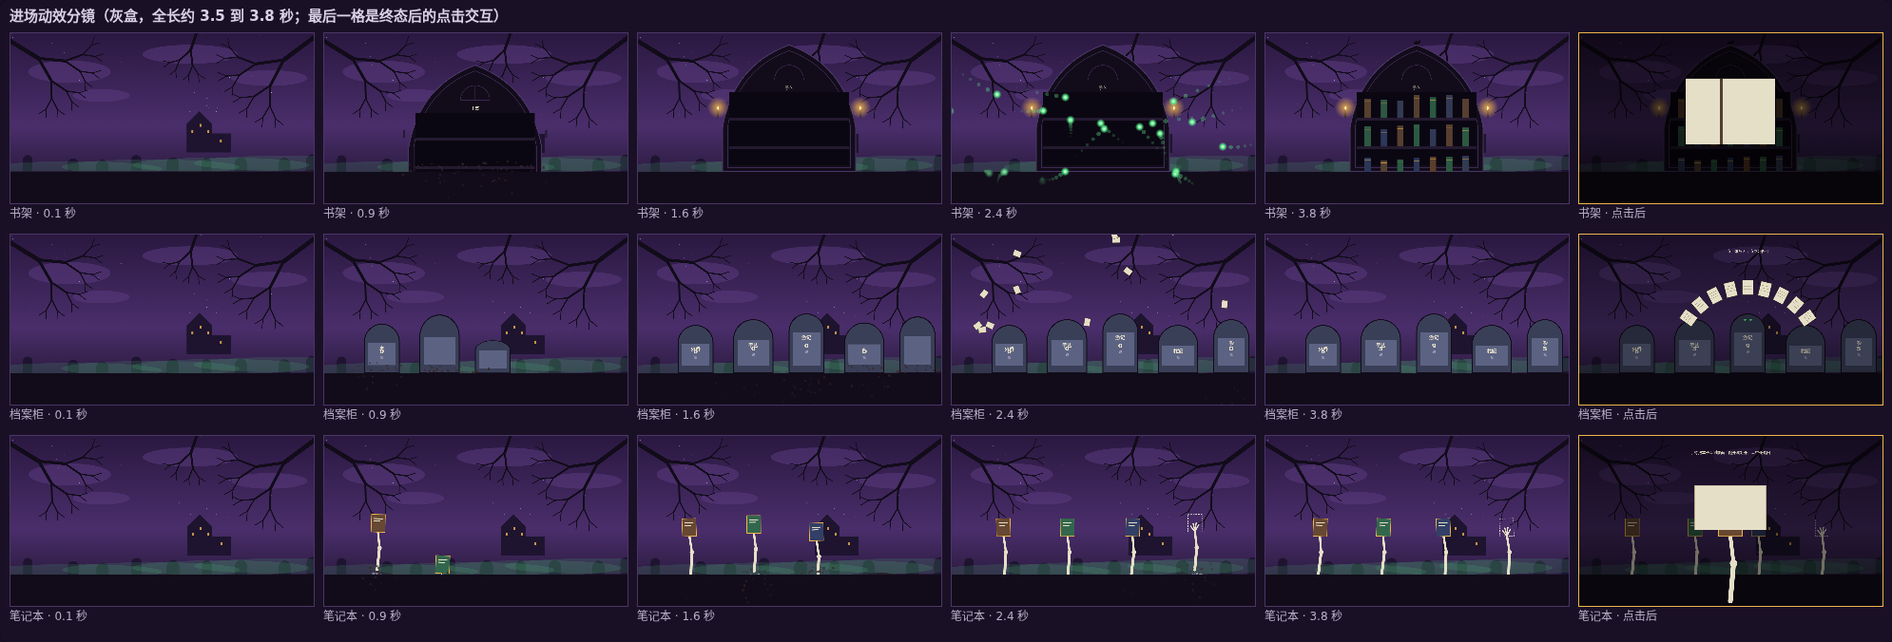
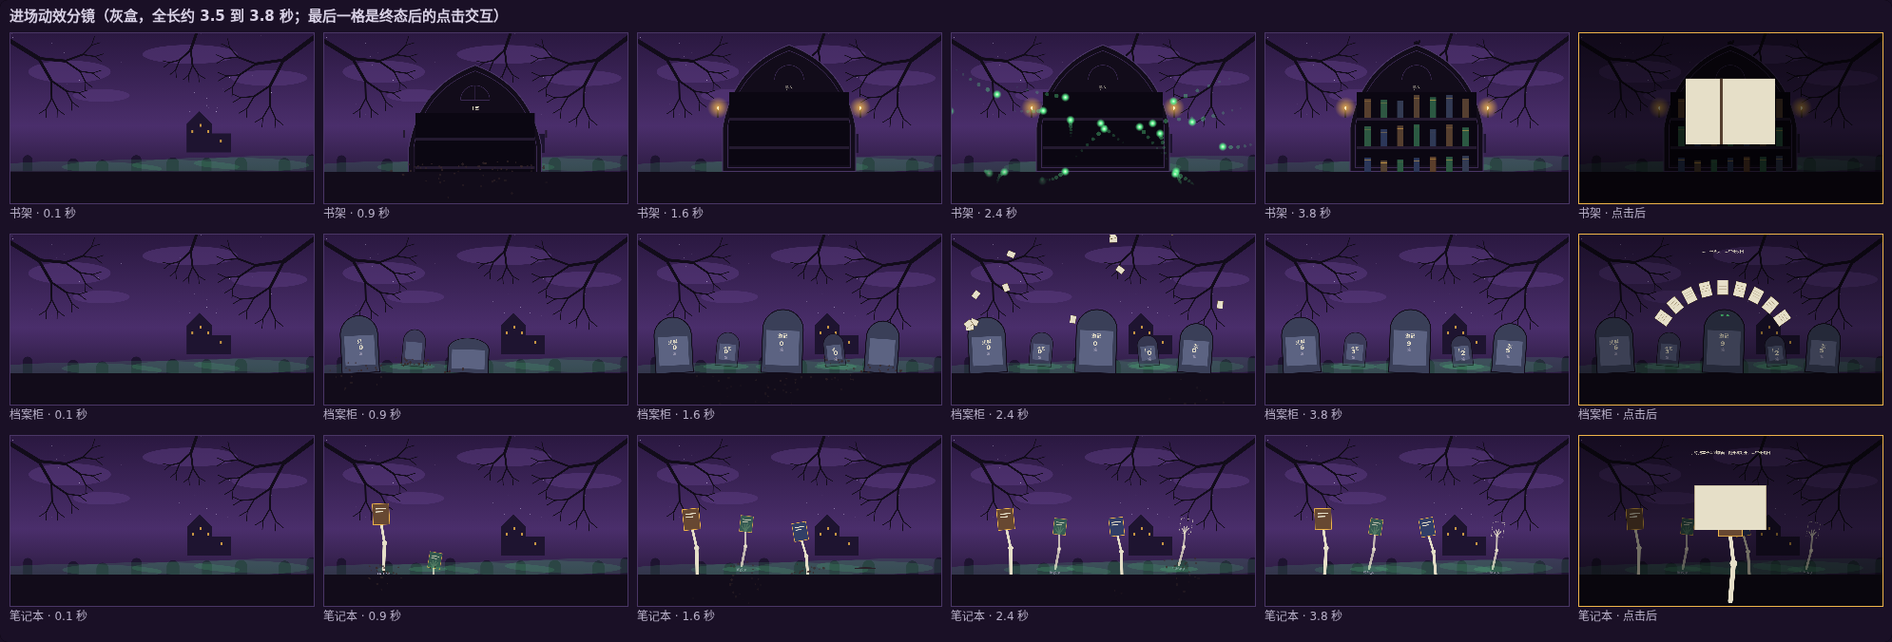
洋红底废止改透明底直出；错落排布规则；原型碑与手臂改错落
- 圣经：零件用 background transparent 直接出透明底，给人看的先贴到场景底上；新增第八之二节错落规则；第二轮试笔改为场景一张加透明底三件（碑与手臂各出三种变体一张表）
- 计划与分镜：生产线、阶段 0、碑与手臂的做法同步
- 灰盒原型：碑前后两排、高矮不一、各歪几度；手臂长短角度前后不一；分镜图重出

diff --git a/docs/ui-motion-proto.html b/docs/ui-motion-proto.html
@@ -53,8 +53,9 @@ const FAR = Array.from({ length: 9 }, (_, i) => ({ x: 40 + i * 110 + R() * 40, w
 const NB = Number(q.get('n') || 21);
 const BOOKS = Array.from({ length: NB }, (_, k) => ({ k, h: 46 + R() * 26, hue: [25, 150, 225][k % 3], sat: 22 + R() * 14, edge: R(), s2: R() }));
 const NAMES = ['史料', '手艺', '游记', '札记', '杂'];
-const TOMBS = [6, 3, 9, 2, 5].map((n, i) => ({ n, name: NAMES[i], x: 130 + i * 175, w: 110 + (i % 2) * 14, h: 150 + (i % 3) * 18, cards: Array.from({ length: n }, () => ({ e: R(), s: R() })) }));
-const ARMS = [['随手本', 170, 25], ['摘抄册', 370, 150], ['读书札记', 570, 225], ['＋ 新本子', 770, -1]].map(([n, x, hue], i) => ({ n, x, hue, j: R() }));
+const TLAY = [[60, 0, 118, 176, -3], [236, 1, 90, 136, 5], [392, 0, 128, 200, 2], [586, 1, 82, 124, -6], [716, 0, 104, 156, 4]]; // x, 后排, 宽, 高, 倾斜度
+const TOMBS = [6, 3, 9, 2, 5].map((n, i) => { const [x, back, w, h, tilt] = TLAY[i]; return { n, name: NAMES[i], x, w, h, back: !!back, sc: back ? .78 : 1, by: back ? GROUND - 22 : GROUND, tilt: tilt * Math.PI / 180, cards: Array.from({ length: n }, () => ({ e: R(), s: R() })) }; });
+const ARMS = [['随手本', 190, 25, 1.18, -4, 0], ['摘抄册', 330, 150, .9, 7, 1], ['读书札记', 540, 225, 1.02, -8, 0], ['＋ 新本子', 720, -1, .84, 10, 1]].map(([n, x, hue, k, tilt, back], i) => ({ n, x, hue, k, tilt: tilt * Math.PI / 180, back: !!back, by: back ? GROUND - 18 : GROUND, j: R() }));
 
 function edgePoint(e, s) { if (e < .33) return { x: -30, y: 80 + s * 300 }; if (e < .66) return { x: W + 30, y: 80 + s * 300 }; return { x: 60 + s * (W - 120), y: GROUND + 20 }; }
 
@@ -151,20 +152,21 @@ function renderArchive(ctx, t, short, fan) {
   const shake = (!short && t < .3) ? { x: Math.sin(t * 80) * 3 * (1 - t / .3), y: 0 } : { x: 0, y: 0 };
   background(ctx, t, shake);
   const counts = TOMBS.map(() => 0);
-  TOMBS.forEach((tb, i) => { const st = short ? 0 : .3 + i * .25, g = short ? 1 : easeOutBack(seg(t, st, .7)); if (g <= 0) return; ctx.save(); ctx.translate(tb.x + tb.w / 2, GROUND); ctx.scale(1, g); ctx.translate(-tb.w / 2, 0); ctx.fillStyle = STONE_D; tombShape(ctx, 0, -tb.h, tb.w, tb.h); ctx.fill(); ctx.strokeStyle = WOOD; ctx.lineWidth = 3; ctx.stroke(); ctx.fillStyle = STONE; ctx.fillRect(12, -tb.h + tb.w / 2 + 2, tb.w - 24, tb.h - tb.w / 2 - 26); const nameU = short ? 1 : seg(t, st + .5, .6); ctx.fillStyle = BONE; ctx.font = 'bold 15px system-ui'; ctx.textAlign = 'center'; ctx.fillText(tb.name.slice(0, Math.ceil(tb.name.length * nameU)), tb.w / 2, -tb.h + tb.w / 2 + 24); eyes(ctx, tb.w / 2, -tb.h + 18, (fan && fan.i === i) ? 1 : (short ? 0 : clamp((t - 3.2) * 4) * (t < 3.5 ? 1 : 0))); ctx.restore(); if (!short) dirt(ctx, t, st, tb.x + tb.w / 2, GROUND, 24, tb.w + 30, 20 + i); });
+  const order = [...TOMBS.keys()].sort((a, b) => (TOMBS[b].back ? 1 : 0) - (TOMBS[a].back ? 1 : 0));
+  order.forEach(i => { const tb = TOMBS[i]; const st = short ? 0 : .3 + i * .25, g = short ? 1 : easeOutBack(seg(t, st, .7)); if (g <= 0) return; ctx.save(); ctx.translate(tb.x + tb.w / 2, tb.by); ctx.rotate(tb.tilt); ctx.scale(tb.sc, tb.sc * g); ctx.translate(-tb.w / 2, 0); if (tb.back) ctx.globalAlpha = .82; ctx.fillStyle = STONE_D; tombShape(ctx, 0, -tb.h, tb.w, tb.h); ctx.fill(); ctx.strokeStyle = WOOD; ctx.lineWidth = 3; ctx.stroke(); ctx.fillStyle = STONE; ctx.fillRect(12, -tb.h + tb.w / 2 + 2, tb.w - 24, tb.h - tb.w / 2 - 26); const nameU = short ? 1 : seg(t, st + .5, .6); ctx.fillStyle = BONE; ctx.font = 'bold 15px system-ui'; ctx.textAlign = 'center'; ctx.fillText(tb.name.slice(0, Math.ceil(tb.name.length * nameU)), tb.w / 2, -tb.h + tb.w / 2 + 24); eyes(ctx, tb.w / 2, -tb.h + 18, (fan && fan.i === i) ? 1 : (short ? 0 : clamp((t - 3.2) * 4) * (t < 3.5 ? 1 : 0))); ctx.restore(); if (tb.back) { ctx.globalAlpha = .16; ctx.fillStyle = GREEN; ctx.beginPath(); ctx.ellipse(tb.x + tb.w / 2, tb.by + 2, tb.w * .8, 10, 0, 0, 7); ctx.fill(); ctx.globalAlpha = 1; } if (!short) dirt(ctx, t, st, tb.x + tb.w / 2, tb.by, 24, tb.w + 30, 20 + i); });
   const start = short ? 0 : 1.8, dur = short ? .5 : .9; let idx = 0;
-  TOMBS.forEach((tb, i) => tb.cards.forEach((c, j) => { const dep = start + idx * (short ? .012 : .045), u = (t - dep) / dur; idx++; if (u > 1) { counts[i]++; return; } if (u < 0) return; const from = c.e < .5 ? { x: 80 + c.s * (W - 160), y: -20 } : (c.e < .75 ? { x: -20, y: 60 + c.s * 200 } : { x: W + 20, y: 60 + c.s * 200 }); const to = { x: tb.x + tb.w / 2, y: GROUND - tb.h / 2 - 10 }; const e = easeInOutSine(u); cardAt(ctx, lerp(from.x, to.x, e) + Math.sin(u * 7 + j) * 30 * (1 - u), lerp(from.y, to.y, e), (1 - u) * 6 + j, clamp((1 - u) * 5)); }));
-  TOMBS.forEach((tb, i) => { const st = short ? 0 : .3 + i * .25; if (t < st + .5) return; ctx.fillStyle = BONE; ctx.font = 'bold 20px system-ui'; ctx.textAlign = 'center'; ctx.fillText(String(counts[i]), tb.x + tb.w / 2, GROUND - tb.h / 2 + 14); ctx.fillStyle = '#b8b0c8'; ctx.font = '11px system-ui'; ctx.fillText('篇', tb.x + tb.w / 2, GROUND - tb.h / 2 + 30); });
+  TOMBS.forEach((tb, i) => tb.cards.forEach((c, j) => { const dep = start + idx * (short ? .012 : .045), u = (t - dep) / dur; idx++; if (u > 1) { counts[i]++; return; } if (u < 0) return; const from = c.e < .5 ? { x: 80 + c.s * (W - 160), y: -20 } : (c.e < .75 ? { x: -20, y: 60 + c.s * 200 } : { x: W + 20, y: 60 + c.s * 200 }); const to = { x: tb.x + tb.w / 2, y: tb.by - tb.h * tb.sc / 2 - 10 }; const e = easeInOutSine(u); cardAt(ctx, lerp(from.x, to.x, e) + Math.sin(u * 7 + j) * 30 * (1 - u), lerp(from.y, to.y, e), (1 - u) * 6 + j, clamp((1 - u) * 5)); }));
+  TOMBS.forEach((tb, i) => { const st = short ? 0 : .3 + i * .25; if (t < st + .5) return; ctx.fillStyle = BONE; ctx.font = 'bold 20px system-ui'; ctx.textAlign = 'center'; ctx.fillText(String(counts[i]), tb.x + tb.w / 2, tb.by - tb.h * tb.sc / 2 + 14); ctx.fillStyle = '#b8b0c8'; ctx.font = '11px system-ui'; ctx.fillText('篇', tb.x + tb.w / 2, tb.by - tb.h * tb.sc / 2 + 30); });
   // 圆弧摆开
-  if (fan) { const tb = TOMBS[fan.i], u = easeOutBack(clamp(fan.u)); ctx.fillStyle = `rgba(0,0,0,${.35 * clamp(fan.u)})`; ctx.fillRect(0, 0, W, H); const cx = tb.x + tb.w / 2, cy = GROUND - 40, n = tb.cards.length, spread = Math.min(1.9, .32 * n), rad = 230; tb.cards.forEach((c, j) => { const a = -Math.PI / 2 + (n === 1 ? 0 : -spread / 2 + spread * j / (n - 1)); const x = lerp(cx, cx + Math.cos(a) * rad, u), y = lerp(cy - tb.h / 2, cy + Math.sin(a) * rad, u); cardAt(ctx, x, y, (a + Math.PI / 2) * u, 1, true); }); ctx.fillStyle = BONE; ctx.font = '12px system-ui'; ctx.textAlign = 'center'; ctx.fillText('点一张放大，点空处收回', cx, 60); }
+  if (fan) { const tb = TOMBS[fan.i], u = easeOutBack(clamp(fan.u)); ctx.fillStyle = `rgba(0,0,0,${.35 * clamp(fan.u)})`; ctx.fillRect(0, 0, W, H); const cx = tb.x + tb.w / 2, cy = tb.by - 40, n = tb.cards.length, spread = Math.min(1.9, .32 * n), rad = 230; tb.cards.forEach((c, j) => { const a = -Math.PI / 2 + (n === 1 ? 0 : -spread / 2 + spread * j / (n - 1)); const x = lerp(cx, cx + Math.cos(a) * rad, u), y = lerp(cy - tb.h * tb.sc / 2, cy + Math.sin(a) * rad, u); cardAt(ctx, x, y, (a + Math.PI / 2) * u, 1, true); }); ctx.fillStyle = BONE; ctx.font = '12px system-ui'; ctx.textAlign = 'center'; ctx.fillText('点一张放大，点空处收回', cx, 60); }
   return short ? .8 : 3.5;
 }
-function hitTomb(x, y) { return TOMBS.findIndex(tb => x > tb.x && x < tb.x + tb.w && y > GROUND - tb.h && y < GROUND); }
+function hitTomb(x, y) { const f = TOMBS.findIndex(tb => !tb.back && x > tb.x && x < tb.x + tb.w && y > tb.by - tb.h && y < tb.by); if (f >= 0) return f; return TOMBS.findIndex(tb => tb.back && x > tb.x && x < tb.x + tb.w * tb.sc && y > tb.by - tb.h * tb.sc && y < tb.by); }
 
 // —— 笔记本：骷髅手臂伸出，抓着本子 ——
-function arm(ctx, x, baseY, rise, sway, hue, label, lift) {
+function arm(ctx, x, baseY, rise, sway, hue, label, lift, k = 1) {
   ctx.save(); if (!lift) { ctx.beginPath(); ctx.rect(0, 0, W, GROUND); ctx.clip(); }
-  ctx.translate(x, baseY + 150 * (1 - rise)); ctx.rotate(sway);
+  ctx.translate(x, baseY + 150 * k * (1 - rise)); ctx.rotate(sway); ctx.scale(k, k);
   ctx.strokeStyle = BONE; ctx.lineWidth = 9; ctx.lineCap = 'round';
   ctx.beginPath(); ctx.moveTo(0, 0); ctx.lineTo(6, -70); ctx.stroke(); // 前臂
   ctx.lineWidth = 7; ctx.beginPath(); ctx.moveTo(6, -70); ctx.lineTo(0, -120); ctx.stroke(); // 上臂（肘向前）
@@ -178,18 +180,20 @@ function arm(ctx, x, baseY, rise, sway, hue, label, lift) {
 }
 function renderNotes(ctx, t, short, lift) {
   background(ctx, t, { x: 0, y: 0 });
-  ARMS.forEach((a, i) => {
+  [...ARMS.keys()].sort((p, q) => (ARMS[q].back ? 1 : 0) - (ARMS[p].back ? 1 : 0)).forEach(i => { const a = ARMS[i];
     const st = short ? 0 : .4 + i * .45, u = short ? 1 : seg(t, st, 1.0);
-    if (!short && t > st - .25 && u <= 0) { const m = seg(t, st - .25, .25); ctx.fillStyle = '#2a1f28'; ctx.beginPath(); ctx.ellipse(a.x, GROUND, 40, 10 * m, 0, Math.PI, 0); ctx.fill(); }
+    if (!short && t > st - .25 && u <= 0) { const m = seg(t, st - .25, .25); ctx.fillStyle = '#2a1f28'; ctx.beginPath(); ctx.ellipse(a.x, a.by, 40 * a.k, 10 * m, 0, Math.PI, 0); ctx.fill(); }
     if (u <= 0) return;
-    const rise = easeOutBack(u), sway = (u >= 1) ? Math.sin(t * 1.6 + a.j * 6) * .04 : Math.sin(t * 30) * .05 * (1 - u);
-    arm(ctx, a.x, GROUND, Math.min(rise, 1.1), sway, a.hue, a.n);
-    if (!short) dirt(ctx, t, st, a.x, GROUND, 24, 90, 40 + i);
+    const rise = easeOutBack(u), sway = a.tilt + ((u >= 1) ? Math.sin(t * 1.6 + a.j * 6) * .04 : Math.sin(t * 30) * .05 * (1 - u));
+    if (a.back) ctx.globalAlpha = .8;
+    arm(ctx, a.x, a.by, Math.min(rise, 1.1), sway, a.hue, a.n, false, a.k); ctx.globalAlpha = 1;
+    if (a.back) { ctx.globalAlpha = .16; ctx.fillStyle = GREEN; ctx.beginPath(); ctx.ellipse(a.x, a.by + 2, 60, 9, 0, 0, 7); ctx.fill(); ctx.globalAlpha = 1; }
+    if (!short) dirt(ctx, t, st, a.x, a.by, 24, 90, 40 + i);
   });
   if (lift) { const a = ARMS[lift.i], u = easeOutCubic(clamp(lift.u)); ctx.fillStyle = `rgba(0,0,0,${.5 * u})`; ctx.fillRect(0, 0, W, H); ctx.save(); ctx.translate(lerp(a.x, W / 2, u), lerp(GROUND, GROUND + 110, u)); ctx.scale(lerp(1, 1.7, u), lerp(1, 1.7, u)); arm(ctx, 0, 0, 1.1, 0, a.hue, '', true); ctx.restore(); const o = clamp((lift.u - .7) / .4); if (o > 0) { ctx.save(); ctx.translate(W / 2, 230); ctx.fillStyle = BONE; ctx.fillRect(-150 * o, -70, 150 * o, 140); ctx.fillRect(0, -70, 150 * o, 140); ctx.strokeStyle = '#b9a98a'; ctx.strokeRect(-150 * o, -70, 300 * o, 140); ctx.restore(); } ctx.fillStyle = BONE; ctx.font = '12px system-ui'; ctx.textAlign = 'center'; ctx.fillText('手臂把本子举到前面，翻开成对开；点空处递回', W / 2, 60); }
   return short ? .8 : 3.5;
 }
-function hitArm(x, y) { return ARMS.findIndex(a => Math.abs(x - a.x) < 40 && y > GROUND - 190 && y < GROUND + 20); }
+function hitArm(x, y) { return ARMS.findIndex(a => Math.abs(x - a.x) < 40 * a.k && y > a.by - 190 * a.k && y < a.by + 20); }
 
 const SEQS = { shelf: renderShelf, archive: renderArchive, notes: renderNotes };
 const SNAMES = { shelf: '书架', archive: '档案柜', notes: '笔记本' };

diff --git a/docs/ui-style-bible.md b/docs/ui-style-bible.md
@@ -74,6 +74,15 @@
 | 封存 | 铁锁加蜡封，碑面合上 | 封 |
 | 待归位 | 沙漏，碑面敞开纸角伸出 | 待 |
 
+## 八之二、排布：错落
+
+同类物件站成一排是最呆的（用户 2026-11-06 看灰盒时指出）。规则：
+- **不等**：同类物件三种变体轮着用，高矮宽窄不同；间距不等，差 20% 到 40%。
+- **前后两排**：后排缩到 0.75 到 0.8、底边抬高、脚下雾更浓、整体压暗一档；前排清楚。一屏前排至多五件、后排至多四件。
+- **歪**：每件歪 3 到 8 度，左右交替，不整齐。
+- **主角在前**：随手本的那只手、在读的那一架、最近动过的那座碑，站最前、最大、最亮（烛在它旁边）。
+- **稳**：错落由物件的编号做种子算出来，同一件东西每次进来都站在同一个位置，不乱跳。
+
 ## 九、动效词汇
 
 进场三段见 `ui-scene-motion.md`（钻出 / 长出 / 伸出，汇聚，落定；全长 3.5 秒、短版 0.8 秒、点一下跳过）。
@@ -92,12 +101,12 @@ grey-blue stone, bone white, ghost green, candle amber; no red. Moody and myster
 not gory. No text, no letters, no watermark, no photorealism, no 3D render look, no flat vector, no pixel art.
 ```
 
-后缀按零件类型：
-- 场景背景：`… full-bleed scene`（不要洋红底），桌面 3:2、手机 2:3 各出一张。
+后缀按零件类型（**不再用洋红底**：接口有 `background: transparent`，脚本加 `--bg transparent` 直接出透明底 PNG；给人看的一律先贴到场景底上再看，不看抠底原图）：
+- 场景背景：`… full-bleed scene`，桌面 3:2、手机 2:3 各出一张。
 - 材质瓷砖：`seamless texture swatch of <材质>, fills the whole frame, even dim lighting`。
-- 框与角花：`one black gothic carved corner piece / one pointed-arch panel frame, front view, symmetric, resting flat`。
-- 小件与图标表：`a sheet of N <小件> in a neat grid, same scale, same lighting, generous spacing`。
-- 英雄物件：`front view, single object` 加 `Isolated on a solid flat magenta #FF00FF background, nothing touching the edges`；带本机样式图走 edit 端点。
+- 框与角花：`one black gothic carved corner piece / one pointed-arch panel frame, front view, symmetric, resting flat, transparent background`。
+- 小件与零件表：`a sheet of N different <小件> side by side, different heights and shapes, same scale, same lighting, generous spacing, transparent background`，`cut.py --split` 拆开。同一种东西一次出三个变体，排布时才有错落。
+- 英雄物件：`front view, single object, feet on the ground, transparent background`；带本机样式图或场景图走 edit 端点。
 
 ## 十一、命名与登记
 
@@ -105,13 +114,13 @@ not gory. No text, no letters, no watermark, no photorealism, no 3D render look,
 
 ## 十二、阶段 0 的门：第二轮试笔
 
-第一轮（P001 到 P003，温和蓝夜）不作数，留作对照。第二轮四件：
+第一轮（P001 到 P003，温和蓝夜）不作数，留作对照。第二轮四件，**透明底直出，给人看的先贴到甲上**：
 
-| 件 | 定什么 | 比例 | 张数与价 |
+| 件 | 定什么 | 比例与底 | 张数与价 |
 |---|---|---|---|
-| 甲 首页墓场背景 | 紫夜、绿雾、前景三碑带碑眼、山上的宅子、枯枝压顶 | 3:2 | 2 张，中档 0.376 元一张 |
-| 乙 哥特尖拱书架 | 黑木尖拱、窗花格、两侧烛台、顶上乌鸦、从土里钻出 | 2:3 洋红底 | 2 张 |
-| 丙 档案碑 | 碑面一块平的空板留着刻夹名、雕顶、苔、一点绿光 | 2:3 洋红底 | 2 张 |
-| 丁 骷髅手臂 | 一只骨臂从土里伸出、手握一本皮面本子举给观者 | 2:3 洋红底 | 2 张 |
+| 甲 首页墓场背景 | 紫夜、绿雾、前景三碑带碑眼、山上的宅子、枯枝压顶 | 3:2，场景 | 2 张，中档 0.376 元一张 |
+| 乙 哥特尖拱书架 | 黑木尖拱、窗花格、两侧烛台、顶上乌鸦、从土里钻出 | 2:3，透明底 | 2 张 |
+| 丙 档案碑三种 | 一张表三座不同高矮形状的碑，碑面各留一块空板刻夹名 | 3:2，透明底 | 2 张 |
+| 丁 骷髅手臂三种 | 一张表三只长短角度不同的骨臂，各抓一本不同的本子 | 3:2，透明底 | 2 张 |
 
-八张约 3 元。通过条件：`tools/ui/wall.py` 把四件混进 `tools/out/ui/refs/` 的三张用户图与 Pinterest 游戏截图里，明度、彩度、描边密度、饱和落在参考范围内；用户看墙猜不出哪几张是我们的；首页有"压顶的枯枝和远处的宅子"。
+八张约 3 元。通过条件：乙丙丁贴到甲上排成错落的一屏，`tools/ui/wall.py` 把它混进 `tools/out/ui/refs/` 的三张用户图与 Pinterest 游戏截图里，明度、彩度、描边密度、饱和落在参考范围内；用户看墙猜不出哪张是我们的。

diff --git a/docs/ui-system-plan.md b/docs/ui-system-plan.md
@@ -51,7 +51,7 @@
 | 字 | 标题（刻字感）、正文、手写 | 现有自带三款加 Ma Shan Zheng | 3 |
 | 场景背景 | 首页墓场桌面与手机各一张加雾层两层；三个场共用一张地面与天空，家具另贴 | 生图 | 6 |
 | 英雄家具 | 哥特尖拱书架（尖拱、格层、底座三模块）、祭坛（展台）、档案碑两三种、枯树两棵、烛台、乌鸦、信箱 | 生图加抠底为主（第二轮试笔定形），要换角度或改尺寸时再上 Blender 三维按专业流程重做 | 约 12 |
-| 骷髅手臂 | 三个姿势：伸出、举着、递上；臂与本子分层，本子封面由数据换 | 生图 → 抠底拆层（`cut.py --split`）→ transform 动 | 3 |
+| 骷髅手臂 | 三种长短角度，各三个姿势：伸出、举着、递上；臂与本子分层，本子封面由数据换 | 生图透明底零件表 → `cut.py --split` 拆开 → transform 动 | 9 |
 | 粒子与光 | 幽灵光点与拖尾、落土、雾带、灯笼光圈 | canvas 画，贴图一两张 | 4 |
 | 小件 | 卡、本子封面六色、印章、沙漏、链锁、书立、乌鸦 | 生图零件表 → 抠底（`cut.py --split`） | 约 15 |
 | 动效 | 进场三段加八个词汇 | CSS、Web Animations、canvas | 11 |
@@ -64,8 +64,9 @@
 四条路，各管一类东西，最后都进同一道调色与同一面对照墙：
 
 ```
-背景与零件：样式图（概念表） → 报提示词与张数 → gpt-image-2（fal_image2.py，中档）
-            → 抠底 cut.py → 切 nine.py / tile.py → 统一调色 → WebP 两档 → vendor/ui/ 登记 kit.json
+背景与零件：样式图（概念表） → 报提示词与张数 → gpt-image-2（fal_image2.py，中档，零件加 --bg transparent 直接出透明底）
+            → cut.py 只拆零件表与修边 → 切 nine.py / tile.py → 统一调色 → WebP 两档 → vendor/ui/ 登记 kit.json
+            → 给人看的一律先贴到场景底上（不看洋红或透明底原图）
 英雄家具：  量尺（蓝本是乙试笔图） → Blender 粗模 → 高模 → 分层材质 → 看光（月光加灯笼） → 渲透明底
             → 必要时叠一道厚涂处理（笔触与纸纹）让它和生图的零件像一家 → WebP
 骷髅手臂：  丁试笔图 → 抠底拆成臂与本子两层 → 三个姿势各一张 → transform 做伸出、举稳、递上（不绑骨不渲帧）
@@ -78,7 +79,7 @@
 
 | 阶段 | 交付物 | 门 | 生图约 |
 |---|---|---|---|
-| 0 风格圣经 | 圣经第三稿；第二轮试笔四件：甲首页紫夜墓场、乙哥特书架、丙档案碑、丁骷髅手臂（第一轮六张留作对照） | `wall.py` 混进用户三张图与 Pinterest 游戏截图认不出；用户过 | 6 + 8 |
+| 0 风格圣经 | 圣经第三稿；第二轮试笔四件：甲首页紫夜墓场、乙哥特书架、丙档案碑三种、丁骷髅手臂三种，透明底直出，贴到甲上排成错落的一屏（第一轮六张留作对照） | 拼好的一屏混进用户三张图与 Pinterest 游戏截图认不出；用户过 | 6 + 8 |
 | 1 原子 | 八张瓷砖、五种框、控件一套、图标二十、令牌进 CSS | 一页"零件墙"加一个用原子拼成的卷轴弹窗，桌面与手机 | 20 |
 | 2 打样：首页与书架场 | 首页墓场静态样稿（桌面与手机）、书架场终态样稿（真书数据摆进碑架）、进场戏用真零件替换灰盒 | 与 Pinterest 第 4 张（书封当标签的翻书页）和第 2 张（任务板）并排；进场戏真机 60 帧；首屏图量 ≤ 1.5 MB | 15 |
 | 3 笔记场 | 骷髅手臂三姿势、本子封面六色、笔记场终态与伸出动效 | 并排丁试笔图；伸出一段真机不卡 | 6 |
@@ -102,6 +103,7 @@
 - **一致性**：生图、三维、代码三种来路要像一家，靠同一道调色、同一方向的光、同一面对照墙。
 - **性能**：粒子上限 60（手机 30）、背景 WebP、家具两档尺寸懒加载、canvas 只在进场时开。
 - **可读性**：暗底上的字加描边，正文区平纸，写进圣经。
+- **呆板**：同类物件站成一排就是贴图不是场。错落规则在圣经第八之二节，由数据种子算位置。
 - **版权**：参考只在本机看；生成物自有；不用任何游戏的资产或角色。
 
 ## 八、已定与待定

diff --git a/STATUS.md b/STATUS.md
@@ -11,6 +11,7 @@ updated: 2026-11-06
 # 状态
 
 ## 现在停在哪
+- 2026-11-06 晚 用户：洋红底不好看，能不能用别的场景底；墓碑和骷髅手要有错落感 → 查到 fal 的 gpt-image-2 有 `background: transparent`，给 ~/brain/3-Resources/media-toolkit/fal_image2.py 加了 `--bg transparent` 与 `--format`，零件直接出透明底，洋红底废止；定规矩"给人看的一律先贴到场景底上再看"。错落规则写进圣经第八之二节（三种变体轮用、前后两排、歪 3 到 8 度、主角在前、按编号做种子稳定），分镜与计划同步；灰盒原型的碑与手臂改成错落并重出分镜图。第二轮试笔改为：甲首页场景、乙书架透明底、丙三种碑一张表、丁三种手臂一张表，八张约 3 元，等用户点头。
 - 2026-11-06 晚 用户发三张图说"我印象中的首页"（紫夜毒绿墓场、黑哥特尖拱书架、蓝夜刻字碑林）并修正：书架从墓地里钻出；墓碑就是档案夹、碑上刻的字是夹名、点碑卡片飞出呈圆弧状摆开；笔记本是从地里伸出的骷髅手臂抓着本子（不是整只骷髅）→ 圣经第三稿 docs/ui-style-bible.md（紫夜、墨黑、碑灰蓝、骨白、毒绿幽光、烛光琥珀；厚涂加墨线；色弱规则改为紫绿只做气氛、意义不放颜色上；第二轮试笔四件的提示词与价钱）；docs/ui-scene-motion.md 与 ui-system-plan.md 按此改（手臂代替角色，不再绑骨；档案点碑圆弧摆开；预算约 60 元）；灰盒原型 docs/ui-motion-proto.html 改成哥特尖拱钻出、碑刻夹名加点碑扇形、骨臂伸出加递本，分镜图加了"点击后"一列；三张图存 tools/out/ui/refs/ 给 wall.py 用。第一轮试笔六张（温和蓝夜）留作对照不作数。等用户对第二轮试笔四件（甲首页、乙哥特书架、丙档案碑、丁骷髅手臂，八张约 3 元）的提示词点头后生图、跑盲测墙。
 - 2026-11-06 晚 用户「生成看看效果」→ 阶段 0 三件试笔生成完毕（gpt-image-2 中档，六张共 2.26 元，登记在 docs/ui-prompts.md P001 到 P003，原图在 tools/out/ui/trials0/ 不入库，总览 docs/ui-trials0.jpg）：甲首页墓场两张都按要求出齐门、树、三碑、路、灯笼、月、空天；乙墓碑书架第 2 张干净可用（第 1 张背后多了月亮）；丙骷髅书童两张都温和可爱、自带灯笼。cut.py 抠底四张无洋红边；把书架与骷髅贴到首页背景上的拼样 docs/ui-trials0-mock.jpg，三件像一家。盲测对照墙没跑：Pinterest 参考图不在本机磁盘上。等用户看图定：过不过门、选哪张、骷髅要哪种眼睛；过门后按图校正圣经色板，进阶段 1。
 - 2026-11-06 晚 用户定：主题先只做墓地一套、三区共用；首页是一进 App 的独立一页（一片墓场放选项）；全长 3.5 秒短版 0.8 秒；骷髅要；让我先设计风格和蓝图 → 圣经第二稿 docs/ui-style-bible.md（月夜墓场：八色色板、两盏光、碑石骨枯木铁的材质语言、不靠颜色的状态语言、提示词前导、阶段 0 三件试笔的提示词与价钱）；总计划改写为蓝图 docs/ui-system-plan.md（首页墓场与三个场、七种模板、零件体系加角色与场景背景、四条生产路、八阶段改排：打样改为首页与书架场、骷髅单列阶段 3、全套约 55 元）；蓝图线框图 docs/ui-blueprint.html / .png（导航图、手机规则、四个屏）。等用户看蓝图与圣经提意见，并对三件试笔的提示词与价钱点头后生图。
@@ -93,6 +94,7 @@ updated: 2026-11-06
 - 宝石规则是否改成按"能不能回忆"定（沿自 BRIEF）。
 
 ## 日志
+- 2026-11-06 晚 洋红底废止改透明底直出（脚本加 --bg）；错落规则进圣经；原型碑与手臂错落，分镜重出。
 - 2026-11-06 晚 按用户三张图改圣经第三稿、分镜、蓝图、灰盒原型与分镜图，REFERENCES 一条；原型递本时手臂被地平线裁掉的小错已修（72df5ad），分镜图重出。
 - 2026-11-06 晚 阶段 0 三件试笔出图六张（2.26 元），docs/ui-prompts.md、ui-trials0.jpg、ui-trials0-mock.jpg。
 - 2026-11-06 晚 月夜墓场：圣经第二稿、总计划改写为蓝图、蓝图线框图。

diff --git a/docs/ui-scene-motion.md b/docs/ui-scene-motion.md
@@ -35,7 +35,7 @@
 | 时刻 | 画面 |
 |---|---|
 | 0 到 0.3 秒 | 地面抖、土扬 |
-| 0.3 到 1.8 秒 | 碑一座座错开从地里长出（先慢后快再停住），碑面上的夹名一个字一个字刻出来；多于一屏横向排成碑林，雾在碑脚 |
+| 0.3 到 1.8 秒 | 碑一座座错开从地里长出（先慢后快再停住），碑面上的夹名一个字一个字刻出来；碑高矮不一、前后两排、各歪几度（圣经第八之二节的错落规则），多于一屏横向排成碑林，雾在碑脚 |
 | 1.8 到 3.2 秒 | 卡从上方与两侧旋着飞进各自的碑里，碑上的篇数跳动 |
 | 3.2 到 3.5 秒 | 落定，碑眼眨一下 |
 
@@ -46,7 +46,7 @@
 | 时刻 | 画面 |
 |---|---|
 | 0 到 0.4 秒 | 空地，土先鼓起来 |
-| 0.4 到 2.4 秒 | 骨臂一只只错开从土里伸出、举稳，各抓一本封面朝观者的本子；随手本的那只最先、最靠前 |
+| 0.4 到 2.4 秒 | 骨臂一只只错开从土里伸出、举稳，各抓一本封面朝观者的本子；长短角度不一、前后两排、各歪几度；随手本的那只最先、最靠前、最大 |
 | 2.4 到 3.5 秒 | 闲时动作：手臂轻微晃、本子微微转 |
 
 点一本：那只手臂把本子举到前面，本子翻开成对开（现有随手本的两页）。「＋ 新本子」是一只空着的手伸出来等你放一本。
@@ -65,9 +65,9 @@
 |---|---|---|
 | 首页与三场的背景 | 生图一张（紫夜、枯枝压顶、宅子）加两层视差（雾、近景枝），手机竖版另出一张 | 书柜场景已有桌面与手机两版的做法 |
 | 哥特书架 | 英雄家具：生图抠底（第二轮试笔乙）或 Blender 三维按专业流程出透明底图；钻出的颤抖是 transform 曲线，掉土是 canvas 粒子 | 书柜模块、tools/ui/cut.py |
-| 档案碑 | 生图抠底一两种碑形，碑面留空板，夹名用带内阴影的文字刻上去 | cut.py |
+| 档案碑 | 生图透明底出三种碑形的零件表，`cut.py --split` 拆开，碑面留空板，夹名用带内阴影的文字刻上去；排布按错落规则 | cut.py |
 | 幽灵与卡的汇聚、卡片圆弧摆开 | canvas 粒子与 DOM 变换：幽灵从边缘出发正弦摇摆飞向格位，到位换成真书脊；卡的扇形是 DOM 卡片按圆弧角度 transform | 书脊与卡已由数据生成 |
-| 骷髅手臂 | 生图一只骨臂握本子，抠底后拆成臂与本子两层（本子封面由数据换），三个姿势各一张；伸出 = 从地平线以下 translate 上来加掉土 | cut.py --split |
+| 骷髅手臂 | 生图透明底出三种骨臂的零件表，拆成臂与本子两层（本子封面由数据换），三个姿势各一张；伸出 = 从地平线以下 translate 上来加掉土；排布按错落规则 | cut.py --split |
 | 打开书 / 碑面翻开 / 递本子 | CSS 三维变换的翻页加压暗背景 | 展台、档案夹对开、笔记本对开的位置都在 |
 | 声音 | 一动一声，CC0 音源，默认静音可开 | 无 |
 
